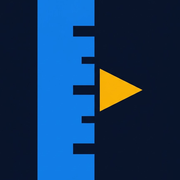
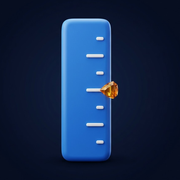
圖示改 3D 陶瓷刻度尺，頂列徽章換新，?v=27

diff --git a/public/index.html b/public/index.html
@@ -12,7 +12,7 @@
     <link rel="apple-touch-icon" href="apple-touch-icon.png">
     <title>刻度・互動式評量</title>
     <!-- 深淺色主題：同步載入，頁面畫出來之前就決定好顏色，不會先閃白再變黑 -->
-    <script src="js/theme.js?v=26"></script>
+    <script src="js/theme.js?v=27"></script>
     <!-- mammoth / SheetJS / html2canvas / jsPDF / docx 這五個加起來是首屏最重的一塊，
          但它們只有在「上傳檔案出題」跟「按下載」時才用得到。改成按需載入（見 loadScript()），
          首屏不再為了可能永遠不會按的按鈕付這筆流量。版本號都寫死，不用 @latest，
@@ -24,15 +24,15 @@
     <link rel="stylesheet" href="https://cdn.jsdelivr.net/npm/@phosphor-icons/web@2.1.2/src/duotone/style.css" />
     <link rel="stylesheet" href="assets/brand.css">
     <!-- 引導式進站（歡迎特效 → 選身分 → 老師一步一頁）；改 guide.css／guide.js 時兩邊 ?v= 一起升 -->
-    <link rel="stylesheet" href="css/guide.css?v=26">
+    <link rel="stylesheet" href="css/guide.css?v=27">
     <!-- 原本的 <style> 整段搬到 css/，2026-10-21 -->
-    <link rel="stylesheet" href="css/app.css?v=26">
-    <link rel="stylesheet" href="css/sheet.css?v=26">
+    <link rel="stylesheet" href="css/app.css?v=27">
+    <link rel="stylesheet" href="css/sheet.css?v=27">
     <!-- Tailwind 預先建置的靜態檔（不再用 cdn.tailwindcss.com 在瀏覽器即時編譯）；重建方式見 ../tailwind/tailwind.config.js。放在其他樣式表之後，層疊順序跟原本 CDN 一致 -->
-    <link rel="stylesheet" href="css/tailwind.css?v=26">
+    <link rel="stylesheet" href="css/tailwind.css?v=27">
     <!-- 歡迎頁／身分頁（landing.css）與深色主題對主畫面的覆蓋（theme.css）；放最後，層疊上才蓋得過前面的寫死顏色 -->
-    <link rel="stylesheet" href="css/landing.css?v=26">
-    <link rel="stylesheet" href="css/theme.css?v=26">
+    <link rel="stylesheet" href="css/landing.css?v=27">
+    <link rel="stylesheet" href="css/theme.css?v=27">
 <link rel="canonical" href="https://luno.hunglun.com/">
 <!--seo-games--><script type="application/ld+json">{"@context": "https://schema.org", "@graph": [{"@type": "WebApplication", "@id": "https://luno.hunglun.com/#app", "name": "刻度・互動式評量", "url": "https://luno.hunglun.com/", "description": "刻度・互動式評量", "applicationCategory": "EducationalApplication", "operatingSystem": "All", "inLanguage": "zh-TW", "isAccessibleForFree": true, "audience": {"@type": "EducationalAudience", "educationalRole": "student"}, "offers": {"@type": "Offer", "price": "0", "priceCurrency": "TWD"}, "creator": {"@type": "Organization", "name": "鴻綸科技 Hunglun Technology", "url": "https://www.hunglun.com/", "@id": "https://www.hunglun.com/#organization"}, "publisher": {"@type": "Organization", "name": "鴻綸科技 Hunglun Technology", "url": "https://www.hunglun.com/", "@id": "https://www.hunglun.com/#organization"}}, {"@type": "BreadcrumbList", "itemListElement": [{"@type": "ListItem", "position": 1, "name": "鴻綸科技", "item": "https://www.hunglun.com/"}, {"@type": "ListItem", "position": 2, "name": "學習專區", "item": "https://www.hunglun.com/tools/games"}, {"@type": "ListItem", "position": 3, "name": "刻度・互動式評量", "item": "https://luno.hunglun.com/"}]}]}</script>
 </head>
@@ -44,8 +44,8 @@
         <div class="ld-wrap">
             <header class="ld-top">
                 <div>
-                    <img src="assets/logo-light.png?v=26" alt="鴻綸科技 x Google for Education" class="ld-logo is-light">
-                    <img src="assets/logo-dark.png?v=26" alt="" class="ld-logo is-dark" aria-hidden="true">
+                    <img src="assets/logo-light.png?v=27" alt="鴻綸科技 x Google for Education" class="ld-logo is-light">
+                    <img src="assets/logo-dark.png?v=27" alt="" class="ld-logo is-dark" aria-hidden="true">
                 </div>
                 <div class="ld-actions">
                     <a class="ld-tbtn" href="#lqGuide"><span class="ph-duotone ph-book-open-text"></span><span class="lab">使用說明</span></a>
@@ -132,8 +132,8 @@
         <div class="ld-wrap ld-card">
             <header class="ld-top">
                 <div>
-                    <img src="assets/logo-light.png?v=26" alt="鴻綸科技 x Google for Education" class="ld-logo is-light">
-                    <img src="assets/logo-dark.png?v=26" alt="" class="ld-logo is-dark" aria-hidden="true">
+                    <img src="assets/logo-light.png?v=27" alt="鴻綸科技 x Google for Education" class="ld-logo is-light">
+                    <img src="assets/logo-dark.png?v=27" alt="" class="ld-logo is-dark" aria-hidden="true">
                 </div>
                 <div class="ld-actions">
                     <button type="button" class="ld-tbtn" onclick="Guide.openGuide()"><span class="ph-duotone ph-book-open-text"></span><span class="lab">使用說明</span></button>
@@ -220,7 +220,7 @@
     <header id="lqAppbar" class="lq-appbar no-print hidden">
         <div class="lq-appbar-inner">
             <div class="lq-appbar-brand">
-                <img src="assets/badge-medallion.webp" alt="" class="lq-appbar-mark" aria-hidden="true">
+                <img src="assets/app-mark.webp" alt="" class="lq-appbar-mark" aria-hidden="true">
                 <span class="lq-appbar-name">刻度</span>
                 <span class="lq-appbar-tag">互動式評量</span>
             </div>
@@ -623,25 +623,25 @@
     </div>
 
     <!-- 主程式：原本整段寫在這裡，2026-10-21 依功能拆成 js/ 底下的檔案；順序就是原本的先後，不能調換（後面的檔會用到前面宣告的變數） -->
-    <script src="js/core.js?v=26"></script>
-    <script src="js/dialog.js?v=26"></script>
-    <script src="js/entry.js?v=26"></script>
-    <script src="js/home.js?v=26"></script>
-    <script src="js/share.js?v=26"></script>
-    <script src="js/settings.js?v=26"></script>
-    <script src="js/generate.js?v=26"></script>
-    <script src="js/sheet.js?v=26"></script>
-    <script src="js/answer.js?v=26"></script>
-    <script src="js/bank.js?v=26"></script>
-    <script src="js/handoff.js?v=26"></script>
-    <script src="js/router.js?v=26"></script>
-    <script src="js/export.js?v=26"></script>
-    <script src="js/account.js?v=26"></script>
-    <script src="js/admin.js?v=26"></script>
+    <script src="js/core.js?v=27"></script>
+    <script src="js/dialog.js?v=27"></script>
+    <script src="js/entry.js?v=27"></script>
+    <script src="js/home.js?v=27"></script>
+    <script src="js/share.js?v=27"></script>
+    <script src="js/settings.js?v=27"></script>
+    <script src="js/generate.js?v=27"></script>
+    <script src="js/sheet.js?v=27"></script>
+    <script src="js/answer.js?v=27"></script>
+    <script src="js/bank.js?v=27"></script>
+    <script src="js/handoff.js?v=27"></script>
+    <script src="js/router.js?v=27"></script>
+    <script src="js/export.js?v=27"></script>
+    <script src="js/account.js?v=27"></script>
+    <script src="js/admin.js?v=27"></script>
 <!-- ==================== 原卷直上：老師編輯 / 學生作答 / 老師批改 ====================
      學 Kami 的「把靜態文件變成互動作業」，但 AI 大腦用我們自己的（Kami 的 Questions AI 要付費）。
      刻意做成獨立的三個畫面 + 獨立的 script，跟原本的出題流程互不干擾。 -->
-<link rel="stylesheet" href="css/paper.css?v=26">
+<link rel="stylesheet" href="css/paper.css?v=27">
 
 <div id="paperApp" class="hidden min-h-screen bg-gray-50 no-print">
   <!-- ---------- 老師：上傳原卷、調作答區 ---------- -->
@@ -735,11 +735,11 @@
   </div>
 </div>
 
-<script src="js/paper-teacher.js?v=26"></script>
-<script src="js/paper-student.js?v=26"></script>
-<script src="js/paper-focus.js?v=26"></script>
+<script src="js/paper-teacher.js?v=27"></script>
+<script src="js/paper-student.js?v=27"></script>
+<script src="js/paper-focus.js?v=27"></script>
     <!-- 引導式進站（要在 window.onload 之前載入，onload 會呼叫 Guide.start()） -->
-    <script src="js/guide.js?v=26"></script>
+    <script src="js/guide.js?v=27"></script>
 
 </body>
 </html>

diff --git a/public/manual.html b/public/manual.html
@@ -13,13 +13,13 @@
     <link href="https://fonts.googleapis.com/css2?family=Noto+Sans+TC:wght@400;500;700;900&display=swap" rel="stylesheet">
     <link rel="stylesheet" href="assets/brand.css">
     <!-- 改 manual.css 時 ?v= 一起升 -->
-    <link rel="stylesheet" href="css/manual.css?v=1">
+    <link rel="stylesheet" href="css/manual.css?v=2">
 <link rel="canonical" href="https://luno.hunglun.com/manual">
 </head>
 <body>
 
 <header class="m-top">
-    <img src="assets/badge-medallion.webp" alt="">
+    <img src="assets/app-mark.webp" alt="">
     <b>刻度</b><span>使用說明書</span>
     <span class="m-grow"></span>
     <button type="button" class="m-btn m-print-hide" onclick="window.print()">列印／存成 PDF</button>

diff --git a/public/css/app.css b/public/css/app.css
@@ -43,7 +43,7 @@
             display: flex; align-items: center; gap: 0.75rem;
         }
         .lq-appbar-brand { display: flex; align-items: center; gap: 0.5rem; min-width: 0; }
-        .lq-appbar-mark { width: 2rem; height: 2rem; border-radius: 50%; flex: none; }
+        .lq-appbar-mark { width: 2rem; height: 2rem; border-radius: 22%; flex: none; }
         .lq-appbar-name {
             font-weight: 900; font-size: 1rem; color: #1f2937;
             letter-spacing: -0.01em; white-space: nowrap;

diff --git a/public/css/manual.css b/public/css/manual.css
@@ -25,7 +25,7 @@ img { max-width: 100%; height: auto; }
     background: rgba(255, 255, 255, 0.95);
     border-bottom: 1px solid #e5e7eb;
 }
-.m-top img { width: 2rem; height: 2rem; border-radius: 50%; }
+.m-top img { width: 2rem; height: 2rem; border-radius: 22%; }
 .m-top b { font-size: 1.05rem; white-space: nowrap; }
 .m-top span { color: #5F6368; font-size: 0.9rem; }
 .m-top .m-grow { flex: 1; }
